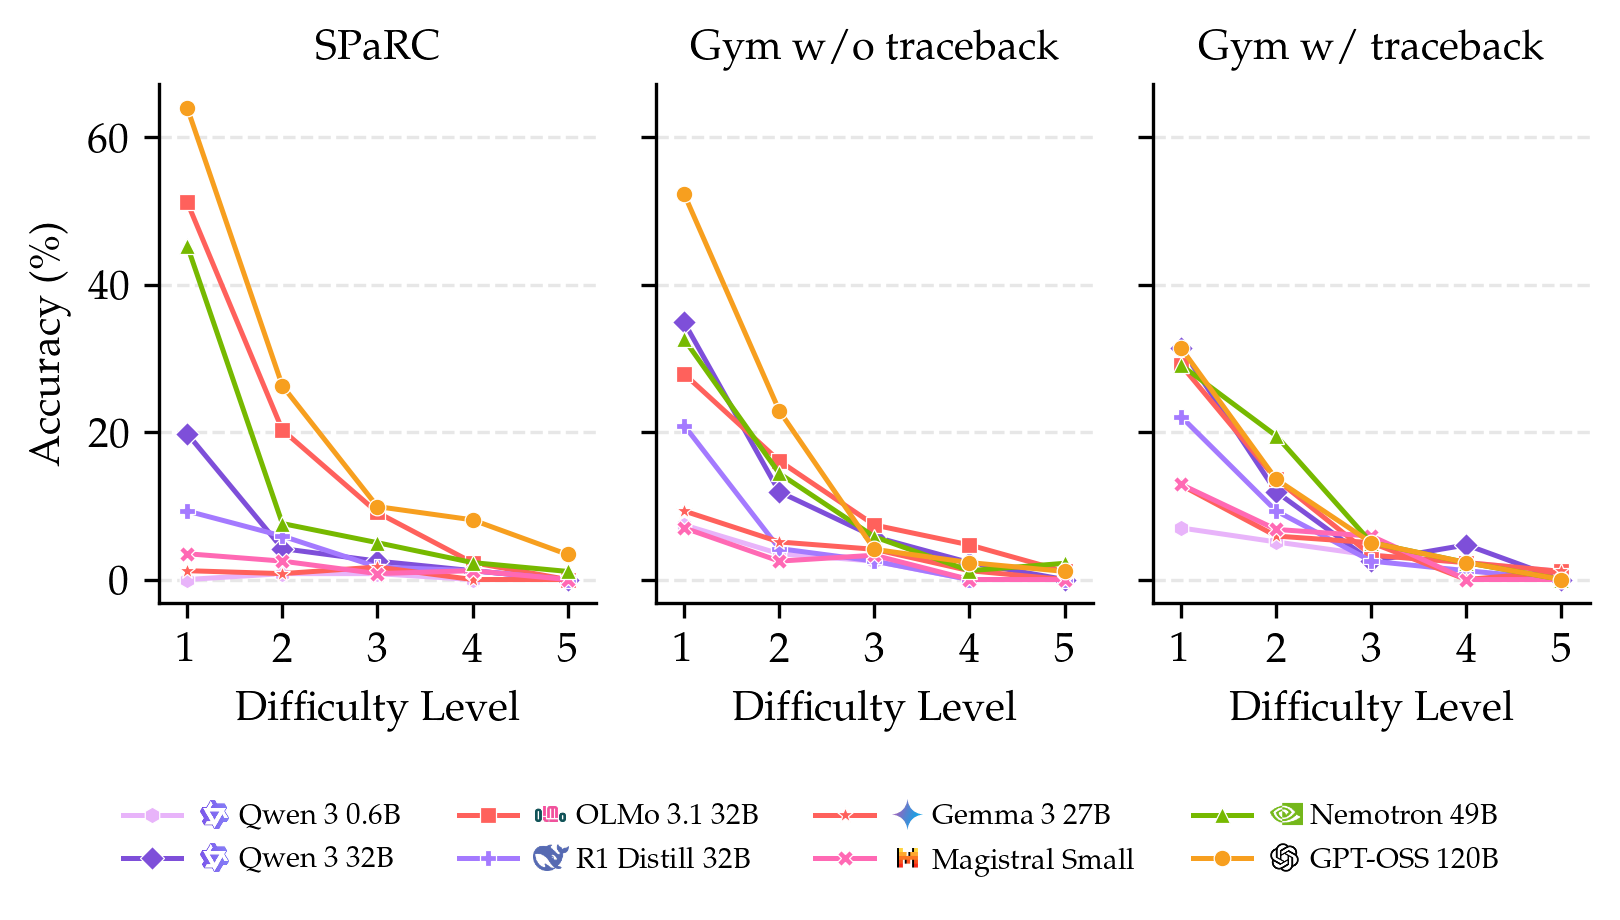
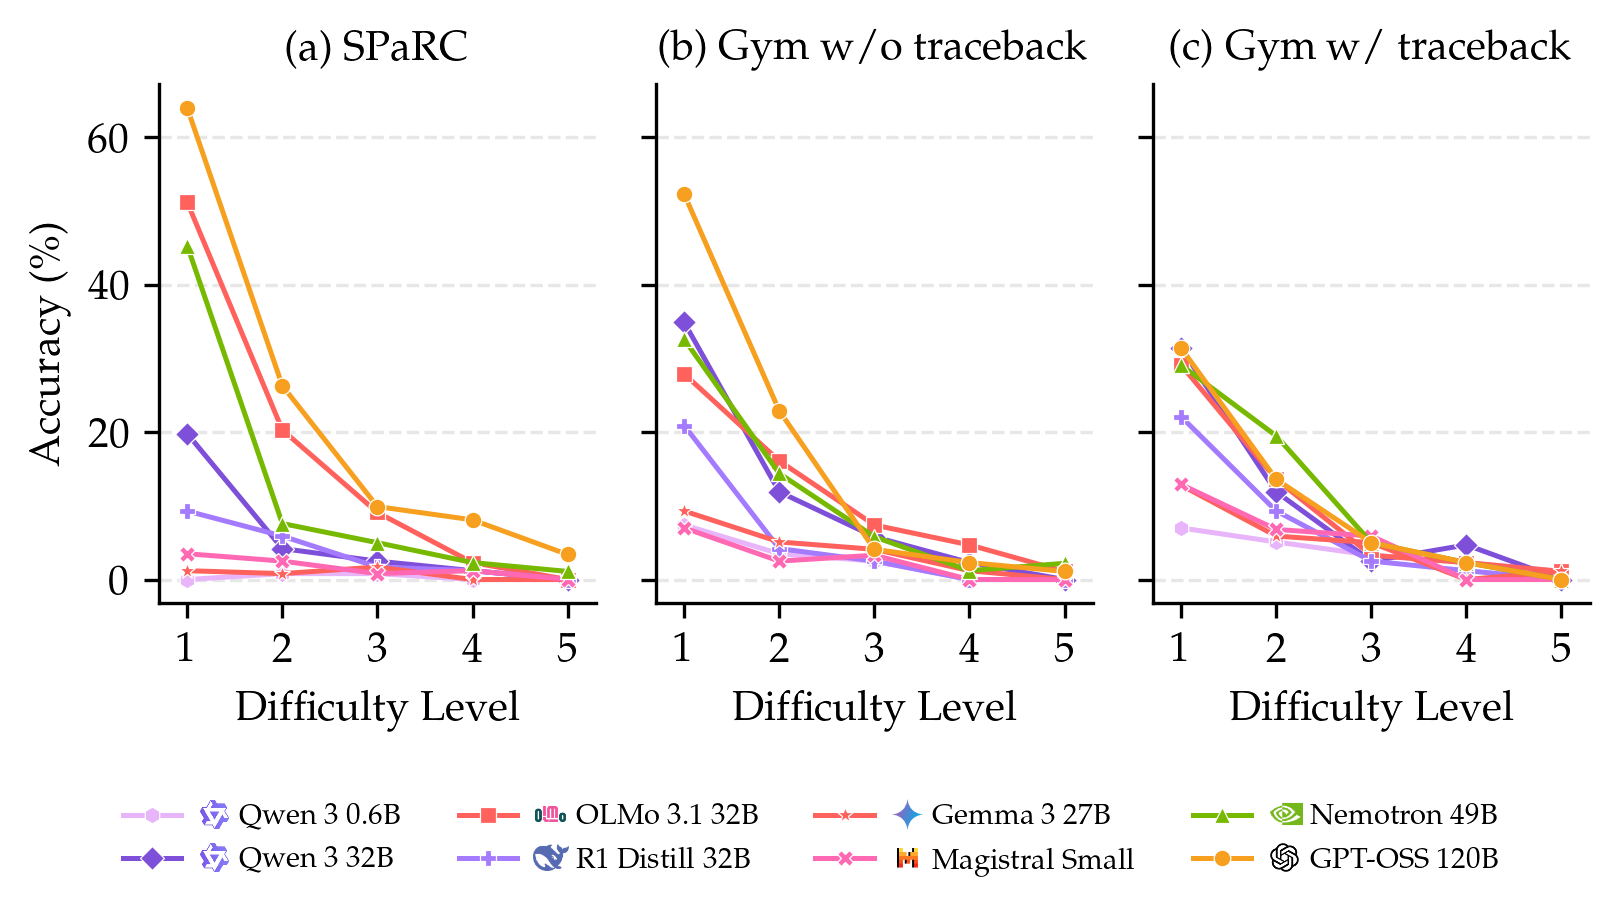
Update difficulty comparison plots with indexed titles for clarity

Changed region(s): [[0.7099, 0.0304, 0.9877, 0.0913], [0.4012, 0.0304, 0.679, 0.0913], [0.1852, 0.0304, 0.2778, 0.0913]]

diff --git a/plot_token_by_difficulty_per_model.py b/plot_token_by_difficulty_per_model.py
@@ -224,12 +224,12 @@ def create_token_by_difficulty_per_model_plot(results_dir, output_path=None):
 
     all_models_seen = {}  # display_name -> (color, marker, internal_name)
 
-    for ax, variant in zip(axes, variant_names):
+    for i, (ax, variant) in enumerate(zip(axes, variant_names)):
         file_type = {v: k for k, v in FILE_TYPE_TO_VARIANT.items()}[variant]
         vdf = df[df["File Type"] == file_type]
 
         if vdf.empty:
-            ax.set_title(variant, fontsize=10)
+            ax.set_title(f'({chr(97 + i)}) {variant}', fontsize=10)
             continue
 
         for internal_name in sorted(vdf["Internal Name"].unique()):
@@ -260,7 +260,7 @@ def create_token_by_difficulty_per_model_plot(results_dir, output_path=None):
             if display_name not in all_models_seen:
                 all_models_seen[display_name] = (color, marker, internal_name)
 
-        ax.set_title(variant, fontsize=10)
+        ax.set_title(f'({chr(97 + i)}) {variant}', fontsize=10)
         ax.set_xlabel('Difficulty Level')
         ax.set_xticks(difficulties)
         ax.set_xlim(0.7, 5.3)

diff --git a/plot_difficulty_comparison.py b/plot_difficulty_comparison.py
@@ -152,10 +152,10 @@ def create_difficulty_comparison_plot(categorized_files, output_path=None):
     # Collect all models across panels for unified legend
     all_models_seen = {}
 
-    for ax, variant in zip(axes, variant_names):
+    for i, (ax, variant) in enumerate(zip(axes, variant_names)):
         files = categorized_files.get(variant, [])
         if not files:
-            ax.set_title(variant, fontsize=10)
+            ax.set_title(f'({chr(97 + i)}) {variant}', fontsize=10)
             continue
 
         for stats_file in files:
@@ -182,7 +182,7 @@ def create_difficulty_comparison_plot(categorized_files, output_path=None):
             if display_name not in all_models_seen:
                 all_models_seen[display_name] = (color, marker)
 
-        ax.set_title(variant, fontsize=10)
+        ax.set_title(f'({chr(97 + i)}) {variant}', fontsize=10)
         ax.set_xlabel('Difficulty Level')
         ax.set_xticks(difficulties)
         ax.set_xlim(0.7, 5.3)
